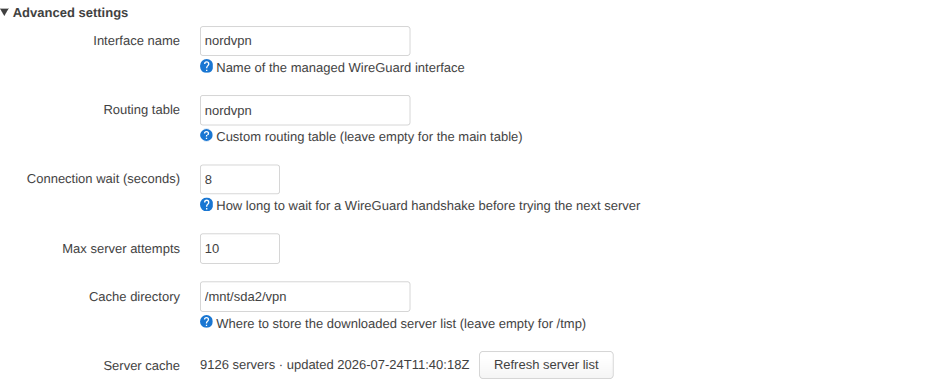
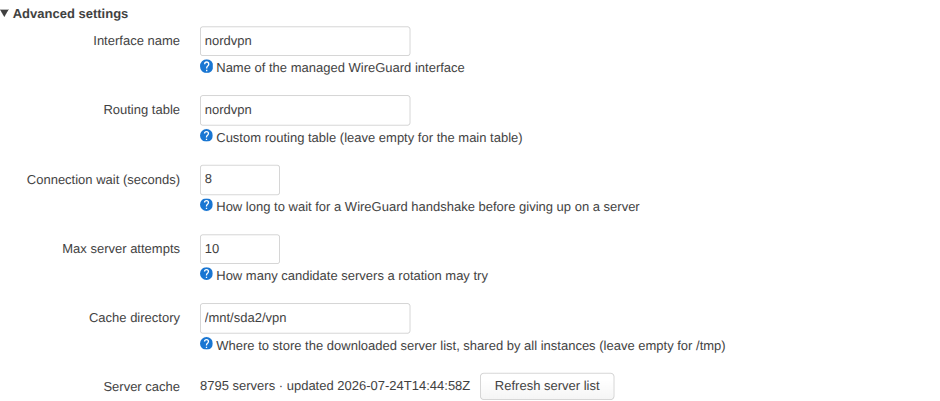
docs+ui: refresh the README and screenshots; hide dead Max server attempts
Retake every screenshot from the current UI (multi-instance table,
Sweden/steered main, segmented hop mode, disconnect/remove buttons,
public IP in the status band) without the router-specific page header,
add a screenshot of the steered-networks panel, and bring the README in
line: instance config sections with source_network, the three routing
modes including steered with local-subnet mirroring, and the updated
feature summary.

Also hide the "Max server attempts" row while a specific server is
pinned — there are no candidates to try in that case (the connection
wait still applies: it is how long the pinned server gets to complete a
handshake).

diff --git a/luci-app-nordvpn/htdocs/luci-static/resources/view/nordvpn/overview.js b/luci-app-nordvpn/htdocs/luci-static/resources/view/nordvpn/overview.js
@@ -709,8 +709,9 @@ return view.extend({
 			this.row(_('Routing table'), [ this.input('routing_table', 'text', g('routing_table', ''), { placeholder: 'main' }) ],
 				_('Custom routing table (leave empty for the main table)')),
 			this.row(_('Connection wait (seconds)'), [ this.input('verify_timeout', 'number', g('verify_timeout', '8'), { min: 2, max: 30, style: 'width:80px' }) ],
-				_('How long to wait for a WireGuard handshake before trying the next server')),
-			this.row(_('Max server attempts'), [ this.input('max_retries', 'number', g('max_retries', '10'), { min: 1, max: 50, style: 'width:80px' }) ]),
+				_('How long to wait for a WireGuard handshake before giving up on a server')),
+			this.maxRetriesRow = this.row(_('Max server attempts'), [ this.input('max_retries', 'number', g('max_retries', '10'), { min: 1, max: 50, style: 'width:80px' }) ],
+				_('How many candidate servers a rotation may try')),
 			this.row(_('Cache directory'), [ this.input('cache_dir', 'text', gm('cache_dir', ''), { placeholder: '/tmp' }) ],
 				_('Where to store the downloaded server list, shared by all instances (leave empty for /tmp)')),
 			this.row(_('Server cache'), [
@@ -720,6 +721,11 @@ return view.extend({
 				])
 			])
 		]);
+
+		// The connection section is built (and may restore a pinned server)
+		// before this row exists — sync the initial visibility.
+		if (this.serverSel && this.serverSel.value)
+			this.maxRetriesRow.classList.add('hidden');
 
 		return E('details', { class: 'nv-advanced cbi-section' }, [
 			E('summary', {}, _('Advanced settings')),
@@ -902,6 +908,9 @@ return view.extend({
 		}
 		if (this.rotFixedNote)
 			this.rotFixedNote.classList.toggle('hidden', !fixed);
+		// With a pinned server there are no candidates to try.
+		if (this.maxRetriesRow)
+			this.maxRetriesRow.classList.toggle('hidden', !!fixed);
 		this.onRotationToggle();
 	},
 

diff --git a/README.md b/README.md
@@ -1,8 +1,10 @@
 # NordVPN WireGuard for OpenWrt
 
 Configure NordVPN's WireGuard (NordLynx) service on OpenWrt, with a one-time
-credential exchange, country/city/server selection, automatic rotation, custom
-routing tables and a native LuCI page.
+credential exchange, country/city/server selection (including Double VPN and
+Onion over VPN), automatic rotation, multiple parallel VPN instances,
+per-network traffic steering with kill switch and IPv6 leak protection, and a
+native LuCI page.
 
 > **Unofficial.** This project is not affiliated with, endorsed by, or supported
 > by Nord Security. "NordVPN" and "NordLynx" are trademarks of their respective
@@ -129,9 +131,11 @@ states** — the page never claims "Connected" just because settings were saved.
 ## Configuration (`/etc/config/nordvpn`)
 
 The backend owns non-secret settings here; a fresh install ships **disabled**.
+One `config instance` section per VPN instance ('main' is the default and also
+carries the shared cache options).
 
 ```
-config settings 'main'
+config instance 'main'
 	option enabled '0'
 	option interface 'nordvpn'
 	option routing_table ''
@@ -146,10 +150,11 @@ config settings 'main'
 	option verify_timeout '8'        # seconds to wait for a WG handshake
 	option max_retries '10'          # candidate servers per rotation
 	option auto_routing '1'          # route all LAN traffic via the VPN
-	option killswitch '0'            # block LAN->WAN while the VPN is down
+	list source_network 'media'      # or: steer only these networks (see below)
+	option killswitch '0'            # block steered traffic while VPN is down
 	option block_ipv6 '1'            # block direct IPv6 (leak prevention)
 	option use_vpn_dns '0'           # push NordVPN resolvers while connected
-	option cache_dir ''              # empty = /tmp
+	option cache_dir ''              # empty = /tmp, shared by all instances
 	option cache_refresh_interval '21600'   # seconds, background refresh
 ```
 
@@ -263,13 +268,13 @@ serialized with a lock, and a failed refresh keeps the previous good cache.
 
 ## Traffic routing & firewall
 
-The **Traffic routing** panel decides how LAN traffic reaches the tunnel.
+The **Traffic routing** panel decides how traffic reaches the tunnel.
 On every apply the backend first *detects* the current scheme:
 
-- **Manual** — a custom routing table is configured, or static routes/rules
-  referencing the VPN interface exist. The package then never touches routing
-  or firewall; the panel is purely informational (with an IPv6-leak warning
-  when the WAN has IPv6).
+- **Manual** — unstamped routes/rules referencing the VPN interface exist, or
+  a routing table is configured without steering. The package then never
+  touches routing or firewall; the panel is purely informational (with an
+  IPv6-leak warning when the WAN has IPv6).
 
   ![Manual routing detected](docs/screenshots/routing-manual.png)
 
@@ -283,6 +288,16 @@ On every apply the backend first *detects* the current scheme:
   down), an **IPv6 block** (family-ipv6 REJECT LAN→WAN, on by default —
   NordLynx is IPv4-only inside, so direct IPv6 would bypass the tunnel), and
   **NordVPN DNS** on the interface.
+
+- **Steered** — specific networks are ticked under *Steered networks*
+  (`list source_network`). Only their traffic is policy-routed into the
+  instance's table; the router's own traffic and other networks are untouched.
+  The kill switch / IPv6 toggles become per-network prohibit rules that fire
+  only when the tunnel cannot serve the traffic, and every local IPv4 subnet
+  is mirrored into the table so VLAN-to-VLAN and local services stay
+  reachable (your own routes for a subnet always win).
+
+  ![Steered networks](docs/screenshots/routing-steered.png)
 
 Everything the automatic mode creates is stamped with `nordvpn_managed`;
 disabling a toggle (or automatic mode) removes exactly the stamped objects and
